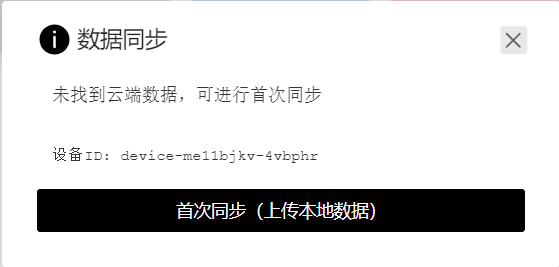
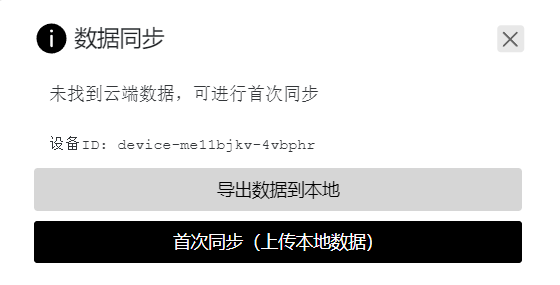
docs: 同步功能说明

diff --git a/docs/guide/synchronize.md b/docs/guide/synchronize.md
@@ -1,23 +1,24 @@
-# WebDAV 同步数据
+# WebDAV 同步数据说明
 
-## 账户准备
+## 1 账户准备
 
-### 坚果云
+### 1.1 坚果云
 
 1. 登录[坚果云](https://www.jianguoyun.com/)，从账户信息进入安全选项
 2. 添加应用，输入`pomotention`，点击生成密码，获得应用密码
-3. 本软件中提供信息，帮助页点击<img src="/icons/ArrowSync24Regular.svg" width="20" style="display: inline-block; vertical-align: middle; margin:0;">按钮，输入：
+3. 本软件中提供信息，`帮助页`点击 <img src="/icons/ArrowSync24Regular.svg" width="20" style="display: inline-block; vertical-align: middle; margin:0;background:rgb(193, 226, 255);border-radius: 6px;"> 按钮，弹出 `录入设置对话框` 输入：
    - https://dav.jianguoyun.com/dav/
    - 坚果云账号
    - 应用密码
    - 保存路径：`/PomodoroBackup`
-4. 再次点击同步按钮，打开同步界面。
+     <img src="/sync-1.png" alt="Sync Setting" width="300">
+4. 点击`测试`按钮:
+   - 如果显示`✔ 账户测试通过！`，点击确认保存；
+   - 如果没有通过测试，无法保存设置，请重新配置。
 
-> [参考坚果云 Zotero 设置](https://help.jianguoyun.com/?p=3168)
+> [坚果云信息获取参考](https://help.jianguoyun.com/?p=3168)
 
----
-
-### 其他支持 WebDAV 的云盘（通用设置方法）
+## 1.2 其他支持 WebDAV 的云盘（通用设置方法）
 
 如果您使用的云盘或服务器本身支持 WebDAV（如 Nextcloud、ownCloud、TeraCLOUD 等），请按照如下方式进行设置：
 
@@ -26,8 +27,54 @@
    - **WebDAV 服务地址**
    - **用户名**：填写您的云盘账户名，或自建 WebDAV 服务分配的用户名
    - **密码/应用密码**：填写您的登录密码、专用的应用密码或服务方提供的访问密钥（如有）
-3. 后续设置同坚果云
+3. 后续步骤同上。
 
-:::info
-不同 WebDAV 服务的地址格式和认证方式可能略有不同；如果连接遇到问题，请优先查看云盘官方文档或联系服务商获取帮助。
-:::
+## 2 云端同步操作
+
+### 2.1 首次同步
+
+1. 完成设置后，再次点击 <img src="/icons/ArrowSync24Regular.svg" width="20" style="display: inline-block; vertical-align: middle; margin:0;background:rgb(193, 226, 255);border-radius: 6px;"> 按钮，弹出 `同步对话框`：
+   <img src="/sync-2.1.png" alt="Sync First" width="300">
+2. 点击 `首次同步（上传本地数据）`。
+
+### 2.2 日常同步
+
+1. 如果软件检测到指定文件存有同步数据，点击点击 <img src="/icons/ArrowSync24Regular.svg" width="20" style="display: inline-block; vertical-align: middle; margin:0;background:rgb(193, 226, 255);border-radius: 6px;"> 按钮，弹出 `同步对话框`：
+   <img src="/sync-2.2.png" alt="Sync Regular" width="300">
+2. 根据 `上传本地数据 - 覆盖云端`，会把当前数据，全部上传至云端，并替换云端的文件。
+3. 根据 `下载云端数据 - 覆盖本地`，会把云端数据，全部下载至本地，导入软件，并刷新。
+
+### 2.3 两台电脑的同步流程
+
+1. 电脑 A（有数据）首次同步云端
+2. 电脑 B（无数据）从云端下载数据，编辑，同步数据到云端
+3. 电脑 A（有数据）从云端下载数据覆盖本地
+
+## 3 本地数据导出
+
+- 从 `录入设置对话框` 点击 `导出数据` 按钮，选择路径后，确认后导出。
+- 从 `同步对话框` 点击 `导出数据到本地` 按钮，选择路径后，确认后导出。
+
+## 4 重要说明
+
+- 同步字段包括：
+
+```
+export const STORAGE_KEYS = {
+  GLOBAL_POMO_COUNT: "globalPomoCount",
+  ACTIVITY: "activitySheet",
+  TODO: "todayTodo",
+  SCHEDULE: "todaySchedule",
+  TASK: "taskTrack",
+  DAILY_POMOS: "dailyPomos",
+  TIMETABLE_WORK: "timeTableBlocks_work",
+  TIMETABLE_ENTERTAINMENT: "timeTableBlocks_entertainment",
+  WRITING_TEMPLATE: "writingTemplate",
+  TAG: "tag",
+  GLOBAL_SETTINGS: "globalSettings",
+  SYNC_STATUS: "syncStatus",
+} as const;
+```
+
+- 同步采用全量同步，整存整取，如果多台设备存在数据，需要进行手动合并
+- 如果自行将相同名字的数据进行合并，可能出现数据冲突，请谨慎操作
